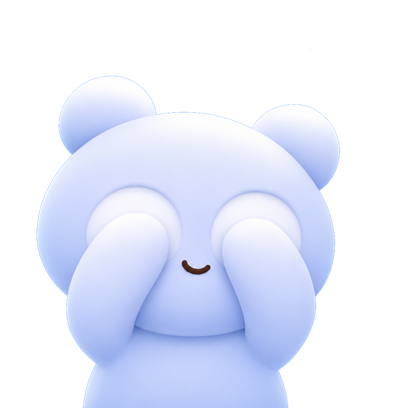
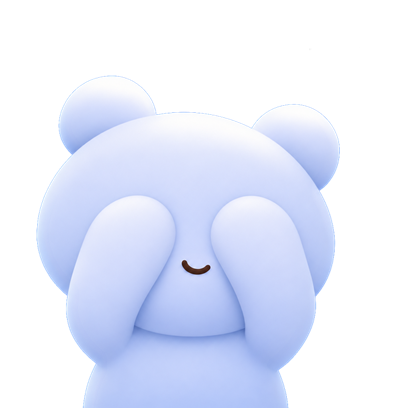
fix(ios): the Your Turn bear covers its whole eyes
Its paws only hid the lower half of each eye socket, so a white rim showed above them, which read as
eye whites. The paws are now larger and reach up to the brow. The edit was made once on the
1024-pixel render; the Live Activity's bear and the app's three sizes are exported from it, each
keeping its own outline, ground, transparency and colour profile.

diff --git a/native/ios-app/Poki/ActivityBears/README.md b/native/ios-app/Poki/ActivityBears/README.md
@@ -5,3 +5,8 @@ Activity draws). They are the ESP-344 design's own cut-outs (`bears-clean`, made
 renders with the corner badges removed), scaled down with `sips -Z 408`. `scripts/make-assets.sh` puts them
 into the app's and the widget extension's asset catalogues. When the 3D model's own clear renders exist (ESP-319), replace these files and
 keep the names; where the head sits in each picture is in `ActivityBear` (ActivityFace.swift).
+
+`ActivityBear-turn` (and `PokiBear-your-turn`, `PokiBearSmall-your-turn` and `PokiBearCutSmall-your-turn` in
+`Bear/`) is the one pose edited after the renders: its paws are larger and reach up to the brow, so they cover
+the whole eye sockets and no white rim shows round them. The edit was made once on the 1024-pixel render and
+every size was exported from it, each keeping its own outline, ground and transparency.
